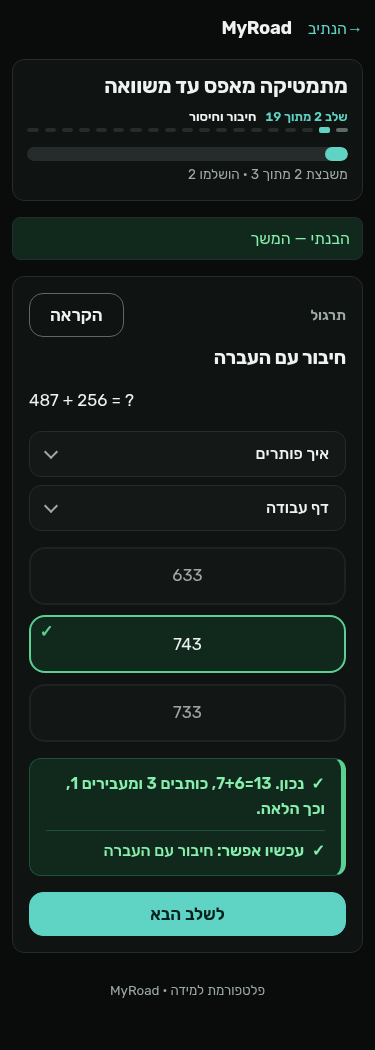
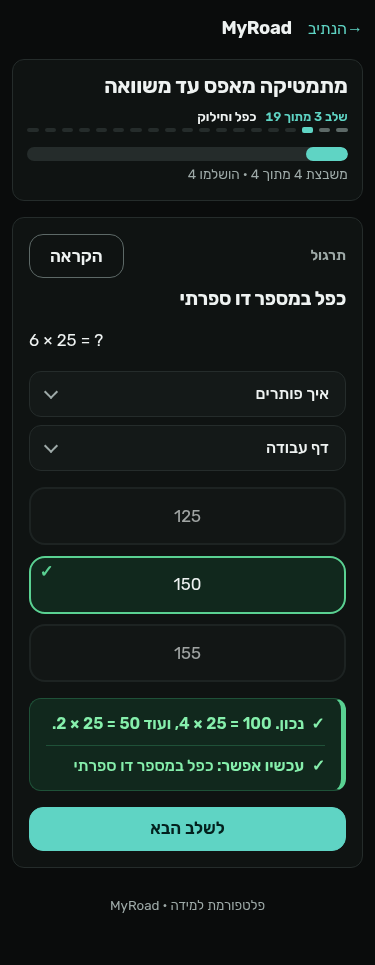
UI: path head goal meter, continue card, in flow step done (#193, #191 partial)

diff --git a/packages/core/src/myroad_core/ui/templates/_path_head_engagement.html b/packages/core/src/myroad_core/ui/templates/_path_head_engagement.html
@@ -4,16 +4,20 @@
 {%- set eng = engagement_view(engagement if engagement is defined else none, topics, mastered) %}
 {%- set gm = eng.goal_meter or {} %}
 {%- set ss = eng.session or {} %}
+{#- #192: goal_meter.stage counts finished שלבים; the head names the one the learner is on. -#}
+{%- set g_done = [gm.stage or 0, gm.stages_total or 0]|min %}
+{%- set g_cur = [g_done + 1, gm.stages_total or 0]|min %}
+{%- set g_target = gm.target_label if gm.target_label and gm.target_label != (meta.title if meta is defined else none) else none %}
 {%- if gm.stages_total %}
 <div class="eng-head" data-derived="{{ 1 if eng.derived else 0 }}">
   <section class="goal-meter" aria-labelledby="goal-meter-title">
     <p class="goal-meter-title" id="goal-meter-title">
-      {%- if gm.target_label %}{{ t('eng_meter_goal', n='<bdi>%s</bdi>'|format(gm.stage), total='<bdi>%s</bdi>'|format(gm.stages_total), target='<bdi>%s</bdi>'|format(gm.target_label|e))|safe }}
-      {%- else %}{{ t('eng_meter', n='<bdi>%s</bdi>'|format(gm.stage), total='<bdi>%s</bdi>'|format(gm.stages_total))|safe }}{% endif -%}
+      {%- if g_target %}{{ t('eng_meter_goal', n='<bdi>%s</bdi>'|format(g_cur), total='<bdi>%s</bdi>'|format(gm.stages_total), target='<bdi>%s</bdi>'|format(g_target|e))|safe }}
+      {%- else %}{{ t('eng_meter', n='<bdi>%s</bdi>'|format(g_cur), total='<bdi>%s</bdi>'|format(gm.stages_total))|safe }}{% endif -%}
     </p>
     <ol class="goal-track" aria-hidden="true">
       {%- for i in range(1, gm.stages_total + 1) %}
-      <li class="{% if i < gm.stage %}is-done{% elif i == gm.stage %}is-here{% endif %}{% if gm.start_stage and i == gm.start_stage and gm.start_stage < gm.stages_total %} is-start{% endif %}"></li>
+      <li class="{% if i <= g_done %}is-done{% elif i == g_cur %}is-here{% endif %}{% if gm.start_stage and i == gm.start_stage and gm.start_stage < gm.stages_total %} is-start{% endif %}"></li>
       {%- endfor %}
     </ol>
     <p class="goal-meter-note tiny">

diff --git a/packages/core/tests/test_engagement_head.py b/packages/core/tests/test_engagement_head.py
@@ -106,12 +106,12 @@ def test_wrong_answer_has_no_step_done_line(client) -> None:
     assert "step-done-line" not in html
 
 
-def _render_head(engagement, locale: str = "he") -> str:
+def _render_head(engagement, locale: str = "he", meta=None) -> str:
     env = jinja2.Environment(loader=jinja2.FileSystemLoader(str(_TPL)), autoescape=True)
     env.globals.update(engagement_view=engagement_view)
     from myroad_core.ui.i18n import t
     tpl = env.get_template("_path_head_engagement.html")
-    return tpl.render(engagement=engagement, topics=[], mastered=set(), doc={"pathId": "p"},
+    return tpl.render(engagement=engagement, topics=[], mastered=set(), doc={"pathId": "p"}, meta=meta or {"title": "x"},
                       t=lambda k, **kw: t(locale, k, **kw))
 
 
@@ -121,20 +121,27 @@ SERVER = {"session": {"no": 4, "steps": [{"id": f"s{i}", "title": f"T{i}", "done
           "gap_days": 4, "warmup_suggested": True}
 
 
+def test_target_equal_to_title_is_not_repeated() -> None:
+    d = json.loads(json.dumps(SERVER)); d["goal_meter"]["target_label"] = "חיבור"
+    env_html = _render_head(d, meta={"title": "חיבור"})
+    assert "היעד" not in env_html and "שלב <bdi>4</bdi> מתוך <bdi>9</bdi> בדרך" in env_html
+
+
 def test_server_engagement_dict_wins() -> None:
     html = _render_head(SERVER)
-    assert "שלב <bdi>3</bdi> מתוך <bdi>9</bdi>, היעד: <bdi>800</bdi>" in html
+    assert "שלב <bdi>4</bdi> מתוך <bdi>9</bdi>, היעד: <bdi>800</bdi>" in html
     assert "נקודת ההתחלה שלך: שלב <bdi>2</bdi>" in html
     track = html[html.index("goal-track"):html.index("</ol>")]
-    assert track.count("is-done") == 2 and track.count("is-here") == 1 and track.count("is-start") == 1
+    assert track.count("is-done") == 3 and track.count("is-here") == 1 and track.count("is-start") == 1
     assert "<bdi>2</bdi> מתוך <bdi>6</bdi>" in html and 'data-derived="0"' in html
 
 
 def test_server_empty_state() -> None:
     empty = json.loads(json.dumps(SERVER))
     empty["session"].update(no=1, done_count=0, steps=[{**s, "done": False} for s in empty["session"]["steps"]])
-    empty["goal_meter"].update(stage=1, start_stage=None, from_placement=False)
+    empty["goal_meter"].update(stage=0, start_stage=None, from_placement=False)
     html = _render_head(empty)
+    assert "שלב <bdi>1</bdi> מתוך <bdi>9</bdi>" in html
     assert "עוד אין נקודת התחלה" in html and "is-start" not in html and "התחל את הדרך" in html
 
 

diff --git a/docs/decisions/0007-engagement-path-head.md b/docs/decisions/0007-engagement-path-head.md
@@ -1,0 +1,21 @@
+# Path head goal meter, continue card, in flow step done (2026-11-02, UI bot)
+## Context
+Issues #193 (path head) and #191 (first AC only). Eliot's rules override the proposal: no interstitial done or summary screens, no game mechanics or praise, on screen words only דרך/שרשרת/נתיב/שלב/פער, premium, light/dark, RTL, 375 mobile, no dashes. Session end screen and week strip wait for Eliot's decision. Data from #192 (`ctx['engagement']`, merged as #194).
+## Options considered
+| Option | Pros | Cons | Score | Cost to switch |
+| A (chosen) template partial `_path_head_engagement.html` + pure `engagement_view` (uses ctx engagement, else derives the same shape) | no route or store change, works before and after #192, testable as a function | one more Jinja global | 23/25 | - |
+| B compute everything in routes | single source | touches server routes (out of scope for UI) | 18/25 | low: move derive into `_engagement` |
+| C client side fetch of /api/path/{id}/engagement | live updates | layout shift, no JS fallback, extra request | 15/25 | medium |
+## Decision
+A: smallest surface, renders nothing broken when engagement is absent, and the later week strip / set end slot attaches below the continue card in the same partial.
+- Goal meter: `stage` from #192 counts finished שלבים; the head names the current one (`min(stage+1, total)`). Segmented track fills from inline start; start point marker from placement. `start_stage` 0 and `stages_total` get their own copy. Target equal to the path title is not repeated.
+- Step done: ✓ + `עכשיו אפשר:` line inside the existing `#step-feedback` polite live region, so it is read once; mark animates only without reduced motion. Text from `session.can_do` for that step, else the step title.
+## Verified
+- pytest packages/core/tests: all pass (see PR). New: tests/test_engagement_head.py (17).
+- axe (wcag2a/aa, 21aa, 22aa, best practice) on path head and step done, 375/1280 × light/dark: 0 violations.
+- Screenshots docs/ui/screens/193/ (harness forced the placement case: target 800, start stage 2).
+## Known limits
+- Target copy is `שלב n מתוך N, היעד: X` (no maqaf) so it reads for 800, N יח"ל and a path title.
+- Week strip, warm up and set end screen not built (await Eliot).
+## How to switch
+To B: call `derive_engagement` inside `_engagement` in platform_routes.py and drop the fallback; templates stay the same.

diff --git a/docs/ui/lessons.md b/docs/ui/lessons.md
@@ -49,3 +49,4 @@ Mockup rounds for the road screen:
 - 2026-11-01: optional scratchpad on practice steps (#183), decision 0005.
 - 2026-11-01: read aloud (#181): Arabic text speaks as ar with a matching voice; with no voice or audio a calm aria-live note shows instead of silence.
 - 2026-11-01: step hint and per choice feedback (#187): hint is a closed 'רמז' disclosure before answering; choice feedback sits under the picked choice, calm neutral note. media_hint is an internal asset slug, never shown as text.
+- 2026-11-02: path head goal meter + continue card (#193) and in flow step done line (#191 first AC), decision 0007. Progress copy uses only שלב/נתיב; no end screen, the learner stays on the step card with Next.
